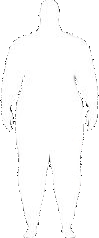
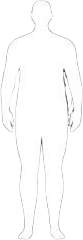
added javascript and updated the images name

diff --git a/07 - BMI Calculator/app.js b/07 - BMI Calculator/app.js
@@ -1,7 +1,92 @@
-// bmi-el
-// img-el
-// result-el
-// height-el
-// weight-el
-// rest();
-// cal();
+// BMI
+let data = [
+  {
+    name: "under weight body shape",
+    img: "images/underweight.png",
+  },
+  {
+    name: "normal body shape",
+    img: "images/normal.png",
+  },
+  {
+    name: "overweight body shape",
+    img: "images/overweight.png",
+  },
+  {
+    name: "obese body shape",
+    img: "images/obese.png",
+  },
+];
+
+let heightEl = document.getElementById("height-el");
+let weightEl = document.getElementById("weight-el");
+let resultEl = document.getElementById("result-el");
+let imgEl = document.getElementById("img-el");
+let bmiNumEl = document.getElementById("bmi-num-el");
+let colorEl = document.getElementById("color-el");
+let BMI;
+function calculateBMI() {
+  let height = parseFloat(heightEl.value);
+  let weight = parseFloat(weightEl.value);
+  if ((isNaN(height) && isNaN(weight)) || (height <= 0 && weight <= 0)) {
+    resultEl.textContent = "not valid ! ";
+    resultEl.classList.add("red-massage");
+  } else if (height <= 0 || isNaN(height)) {
+    resultEl.textContent = "not valid ! ";
+    resultEl.classList.add("red-massage");
+  } else if (weight <= 0 || isNaN(weight)) {
+    resultEl.textContent = "not valid ! ";
+    resultEl.classList.add("red-massage");
+  } else {
+    resultEl.classList.remove("red-massage");
+    BMI = (weight / Math.pow(height / 100, 2)).toFixed(1);
+    bmiNumEl.textContent = BMI;
+    if (BMI < 18.5) {
+      resultEl.textContent = "Your BMI underweight ";
+      imgEl.src = data[0].img;
+      imgEl.setAttribute("alt", data[0].name);
+      colorEl.classList.add("underweight-bg");
+      colorEl.classList.remove("normal-bg");
+      colorEl.classList.remove("overweight-bg");
+      colorEl.classList.remove("obese-bg");
+    } else if (BMI > 18.5 && BMI <= 24.9) {
+      resultEl.textContent = "Your BMI normal ";
+      imgEl.src = data[1].img;
+      imgEl.setAttribute("alt", data[1].name);
+      colorEl.classList.add("normal-bg");
+      colorEl.classList.remove("underweight-bg");
+      colorEl.classList.remove("overweight-bg");
+      colorEl.classList.remove("obese-bg");
+    } else if (BMI >= 25 && BMI <= 29.9) {
+      resultEl.textContent = "Your BMI overweight ";
+      imgEl.src = data[2].img;
+      imgEl.setAttribute("alt", data[2].name);
+      colorEl.classList.add("overweight-bg");
+      colorEl.classList.remove("underweight-bg");
+      colorEl.classList.remove("normal-bg");
+      colorEl.classList.remove("obese-bg");
+    } else {
+      resultEl.textContent = "Your BMI obese ";
+      imgEl.src = data[3].img;
+      imgEl.setAttribute("alt", data[3].name);
+      colorEl.classList.add("obese-bg");
+      colorEl.classList.remove("underweight-bg");
+      colorEl.classList.remove("normal-bg");
+      colorEl.classList.remove("overweight-bg");
+    }
+  }
+}
+function rest() {
+  colorEl.classList.remove("underweight-bg");
+  colorEl.classList.remove("normal-bg");
+  colorEl.classList.remove("overweight-bg");
+  colorEl.classList.remove("obese-bg");
+  imgEl.src = data[1].img;
+  imgEl.setAttribute("alt", data[1].name);
+  resultEl.classList.remove("red-massage");
+  resultEl.textContent = "BMI Calculator";
+  bmiNumEl.textContent = 0;
+  heightEl.value = "";
+  weightEl.value = "";
+  BMI = 0;
+}

diff --git a/07 - BMI Calculator/index.html b/07 - BMI Calculator/index.html
@@ -9,15 +9,15 @@
   </head>
   <body>
     <div class="container">
-      <div class="img-result">
-        <img src="images/fat.png" id="img-el" />
-        <p id="result-el">you are over weight</p>
+      <div class="img-result" id="color-el">
+        <img src="images/normal.png" id="img-el" />
+        <p id="result-el">BMI Calculator</p>
       </div>
-      <div class="bmi-box" id="bmi-el">0.54</div>
+      <div class="bmi-box" id="bmi-num-el">0</div>
       <div class="height-weight-box">
         <input
           type="text"
-          placeholder="Enter your height ... "
+          placeholder="Enter your height cm ... "
           autofocus="on"
           autocomplete="off"
           id="height-el"
@@ -25,7 +25,7 @@
         />
         <input
           type="text"
-          placeholder="Enter your weight ... "
+          placeholder="Enter your weight kg ... "
           autofocus="on"
           autocomplete="off"
           id="weight-el"
@@ -33,7 +33,7 @@
         />
       </div>
       <div class="btn-box">
-        <button class="cal-btn" onclick="cal()">calculate</button>
+        <button class="cal-btn" onclick="calculateBMI()">calculate</button>
         <button class="reset-btn" onclick="rest()">reset</button>
       </div>
     </div>

diff --git a/07 - BMI Calculator/style.css b/07 - BMI Calculator/style.css
@@ -38,6 +38,7 @@ body {
   margin-bottom: 40px;
   font-size: 24px;
   font-weight: 700;
+  text-align: center;
 }
 .bmi-box {
   display: flex;
@@ -50,7 +51,7 @@ body {
   border-radius: 50%;
   height: 120px;
   width: 120px;
-  font-size: 30px;
+  font-size: 40px;
   bottom: 200px;
   right: 32%;
 }
@@ -103,19 +104,25 @@ textarea::placeholder {
 }
 img {
   max-width: 25%;
+  min-width: 25%;
+  width: 200px;
+  height: 200px;
 }
 .normal-bg {
   background-color: #63b832;
 }
 
-.fat-bg {
+.overweight-bg {
   background-color: #f3ea27;
 }
 
-.overweight-bg {
+.obese-bg {
   background-color: #e71419;
 }
 
-.skinny-bg {
+.underweight-bg {
   background-color: #00a1ec;
+}
+.red-massage {
+  color: #e71419;
 }
